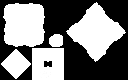
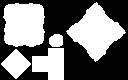
Added horizontal half masks, improved ledge on balcony.

Changed region(s): [[0.25, 0.9, 0.375, 1.0], [0.25, 0.6, 0.375, 0.7], [0.3438, 0.75, 0.4062, 0.85]]

diff --git a/app/content/zones/overworldBig.ts b/app/content/zones/overworldBig.ts
@@ -1576,7 +1576,7 @@ const f0_2x0: AreaDefinition = {
                     [776,776,776,11,11,11,0,0,0,0,1910,1909,0,0,11,11,11,11,0,0,1910,11,11,11,11,11,11,11,11,1909,2296,2296,2296,2296,1910,1909,1910,1909,0,0,0,0,0,0,0,0,0,0,0,0,0,1909,1910,2296,2296,1909,1910,1909,1910,2240,2239,11,11,776],
                     [776,776,776,11,11,11,0,0,0,0,1909,1910,1909,1910,1909,2296,2296,1910,1909,1910,1909,1910,1909,1910,2296,2296,1909,1910,1909,2296,2296,2296,2296,2296,2296,1910,1909,1910,0,0,0,0,0,0,0,0,0,0,0,0,0,1910,1909,2296,2296,1910,1910,1910,1909,2240,2239,2239,2240,776],
                     [776,776,11,11,11,11,0,0,0,1909,1910,1909,1910,1909,1910,2296,2296,1909,1910,1909,1910,1909,1910,1909,2296,2296,1910,1909,2240,2296,2240,2240,2240,2240,2296,2240,1910,1909,1910,1909,1910,1909,1910,2296,2296,2296,1910,1909,1910,1909,1910,1909,1910,2296,2296,1910,1910,1909,1910,2240,2239,2239,2240,776],
-                    [776,11,11,11,11,11,0,0,0,1910,1909,1910,1909,1910,1909,2296,2296,1910,1909,1910,1909,1910,1909,1910,2296,2296,1909,2296,2296,2240,2296,2296,2296,2296,2240,2296,2296,1910,1909,1910,1909,1910,1909,2296,2296,2296,1909,1910,1909,1910,1909,1910,1909,2296,2296,1910,44,43,1909,2240,2239,2239,2240,776],
+                    [776,11,11,11,11,11,0,0,0,1910,1909,1910,1909,1910,1909,2296,2296,1910,1909,1910,1909,1910,1909,1910,2296,2296,1909,2296,2296,2240,2296,2296,2296,2296,2240,2296,2296,1910,1909,1910,1909,1910,1909,2296,2296,2296,1909,1910,1909,1910,1909,1910,1909,2296,2296,1910,44,43,1909,2239,2239,2239,2239,776],
                     [11,11,11,11,11,11,618,618,618,2296,2296,2296,2296,2296,2296,2296,2296,2296,2296,2296,2296,2296,2296,2296,2296,2296,2296,2296,2240,2296,2296,2296,2296,2296,2296,2240,2296,2296,2296,2296,2296,2296,2296,2296,2296,2296,2296,2296,2296,2296,2296,2296,2296,2296,2296,1909,41,42,1910,775,775,775,775,776],
                     [11,11,11,11,11,11,618,618,618,2296,2296,2296,2296,2296,2296,2296,2296,2296,2296,2296,2296,2296,2296,2296,2296,2296,2296,2296,2240,2296,2296,2296,2296,2296,2296,2240,2296,2296,2296,2296,2296,2296,2296,2296,2296,2296,2296,2296,2296,2296,2296,2296,2296,2296,2296,1910,1909,1910,1909,775,775,775,776,776],
                     [11,11,11,11,11,11,0,0,0,1909,1910,1909,1910,1909,1910,1909,1910,1909,1910,1909,1910,1909,1910,1909,1910,1909,1910,2296,2240,2296,2296,2296,2296,2296,2296,2240,2296,1910,1909,1910,1909,1910,1909,1910,1909,1910,1909,1910,1909,1910,1909,1910,1909,2296,2296,1909,1910,1909,1910,11,11,775,776,776],
@@ -1645,7 +1645,8 @@ const f0_2x0: AreaDefinition = {
                     [],
                     [],
                     [],
-                    [,,,,,,,,,2344],
+                    [,,,,,,,,,2345],
+                    [,,,,,,,,,,,,,,,,,,,,,,,,,,,,,,,,,,,,,,,,,,,,,,,,,,,,,,,,,,,,0],
                     [],
                     [],
                     [],
@@ -1657,15 +1658,14 @@ const f0_2x0: AreaDefinition = {
                     [],
                     [],
                     [],
-                    [],
-                    [,,,,,,,,2344],
-                    [],
+                    [,,,,,,,,2345],
                     [],
                     [],
                     [],
                     [],
                     [],
-                    [,,,,,,,2344],
+                    [],
+                    [,,,,,,,2345],
                     [],
                     [],
                     [],
@@ -1720,7 +1720,7 @@ const f0_2x0: AreaDefinition = {
                     [0,0,828,0,0,0,0,0,0,0,2090,0,0,0,0,0,0,0,0,0,0,0,0,0,0,0,0,0,0,0,0,0,0,0,0,0,0,0,0,0,0,0,0,0,0,0,0,0,0,0,0,0,0,0,0,0,0,0,0,0,0,0,0,830],
                     [0,1781,845,0,0,0,0,0,0,0,2090,0,0,0,0,0,0,0,0,0,0,0,0,0,0,0,0,0,0,0,0,0,0,0,0,,0,0,0,0,0,0,0,0,0,0,0,0,0,0,0,0,0,0,0,0,0,0,0,0,0,0,0,830],
                     [859,843,0,0,0,0,0,0,0,2087,2085,0,0,0,0,0,0,0,0,0,0,0,0,0,0,0,0,0,0,0,0,0,0,0,0,0,,0,0,0,0,0,0,0,0,0,0,0,0,0,0,0,0,0,0,0,0,0,0,0,0,0,0,830],
-                    [845,0,0,0,0,0,0,0,0,2090,0,0,0,0,0,0,0,0,0,0,0,0,0,0,0,0,0,0,0,0,0,0,0,0,0,0,0,0,0,0,0,0,0,0,0,0,0,0,0,0,0,0,0,0,0,0,0,0,0,0,0,0,0,830],
+                    [845,0,0,0,0,0,0,0,0,2090,0,0,0,0,0,0,0,0,0,0,0,0,0,0,0,0,0,0,0,0,0,0,0,0,0,0,0,0,0,0,0,0,0,0,0,0,0,0,0,0,0,0,0,0,0,0,0,0,0,1967,0,0,0,830],
                     [0,0,0,0,0,0,628,629,0,0,0,0,0,0,0,0,0,0,0,0,0,0,0,0,0,0,0,0,0,0,0,0,0,0,0,0,0,0,0,0,0,0,0,0,0,0,0,0,0,0,0,0,0,0,0,0,0,0,0,833,833,833,833,830],
                     [0,0,0,0,0,0,0,0,0,0,0,0,0,0,0,0,0,0,0,0,0,0,0,0,0,0,0,0,0,0,0,0,0,0,0,0,0,0,0,0,0,0,0,0,0,0,0,0,0,0,0,0,0,0,0,0,0,0,0,846,831,1780,833,1784],
                     [0,0,0,0,0,0,0,0,0,2090,0,0,0,0,0,0,0,0,0,0,0,0,0,0,0,0,0,0,0,0,0,0,0,0,0,0,0,0,0,0,0,0,0,0,0,0,0,0,0,0,0,0,0,0,0,0,0,0,0,0,0,830,830,0],
@@ -1790,7 +1790,7 @@ const f0_2x0: AreaDefinition = {
                     [],
                     [],
                     [],
-                    [,,,,,,,,,,,,,,,,,,,,,,,,,,,,,,,,,,,,,,,,,,,,,,,,,,,,,,,,,,,,,0,850],
+                    [,,,,,,,,,,,,,,,,,,,,,,,,,,,,,,,,,,,,,,,,,,,,,,,,,,,,,,,,,,,,,0,0],
                     [],
                     [,,,,,,,,,,,,,,,,,,,,,,,,,,,,,,,,,,,,,,,,,,,,,,,,,,,,,,,,,,,,,852,852],
                     [,,,,,,,,,,,,,,,,,,,,,,,,,,,,,,,,,,,,,,,,,,,,,,,,,,,,,,,,,0],
@@ -1863,7 +1863,7 @@ const f0_2x0: AreaDefinition = {
                     [0,0,0,0,0,0,0,0,0,0,1917,0,2006,2007,2202,2202,2202,2202,2003,2007,0,2283,2202,2114,2115,2115,2116,2202,2283,0,0,0,0,0,0,0,0,2035,2000,2001,1954,2339,2339,2038,2038,2038,2339,2339,1952,2000,2001,2036,0,0,0,0,0,0,772,1967,0,753,753,0],
                     [0,0,0,0,0,0,0,0,0,0,1917,0,2008,2009,0,0,0,0,2008,2009,0,0,0,0,0,0,0,0,0,0,0,0,0,0,0,,0,2040,2006,2007,1957,2340,2340,2043,2043,2043,2340,2340,1955,2006,2007,2041,0,0,0,0,0,0,0,1967,0,0,0,0],
                     [0,0,766,0,0,0,0,0,0,0,1918,0,0,0,0,0,0,0,0,0,0,0,0,0,0,0,0,0,51,0,0,0,0,0,0,51,,0,2008,2009,0,0,0,0,0,0,0,0,0,2008,2009,0,0,0,0,1918,1915,1915,1921,1967,0,0,0,0],
-                    [0,758,766,0,0,0,0,0,0,0,0,0,0,0,0,0,0,0,0,0,0,0,0,0,0,0,0,0,0,0,0,0,0,0,0,0,0,0,0,0,0,0,0,0,0,0,0,0,0,0,0,0,0,0,0,1917,20,20,1917,1959,0,0,0,0],
+                    [0,758,766,0,0,0,0,0,0,0,0,0,0,0,0,0,0,0,0,0,0,0,0,0,0,0,0,0,0,0,0,0,0,0,0,0,0,0,0,0,0,0,0,0,0,0,0,0,0,0,0,0,0,0,0,1917,20,20,1917,768,754,754,754,0],
                     [758,758,766,0,0,0,0,629,630,0,0,0,0,0,0,0,0,0,0,0,0,0,0,0,0,0,0,0,0,0,0,0,0,0,0,0,0,0,0,0,0,0,0,0,0,0,0,0,0,0,0,0,0,0,0,1917,20,20,1917,830,0,0,0,0],
                     [758,758,766,0,0,0,637,638,639,0,0,0,0,0,0,0,0,0,0,0,0,0,0,0,0,0,0,0,0,0,0,0,0,0,0,0,0,0,0,0,0,0,0,0,0,0,0,0,0,0,0,0,0,0,0,1919,1915,1915,1921,0,0,0,833,0],
                     [758,770,773,0,0,0,0,0,0,0,0,0,0,0,0,0,0,0,0,0,0,0,0,0,0,0,0,0,0,0,0,0,0,0,0,0,0,0,0,0,0,0,0,0,0,0,0,0,0,0,0,0,0,0,0,0,0,0,0,755,755,0,0,0],
@@ -1907,6 +1907,76 @@ const f0_2x0: AreaDefinition = {
                     [754,753,754,753,754,753,754,753,754,753,754,753,754,753,754,753,754,753,754,753,754,758,873,874,874,875,753,753,754,753,754,753,754,753,754,753,754,753,754,753,754,753,754,753,753,754,753,754,753,754,753,754,753,754,753,754,753,754,753,754,753,754,753,754],
                 ],
             },
+            mask: {
+                w: 64,
+                h: 64,
+                tiles: [
+                    [],
+                    [],
+                    [],
+                    [],
+                    [],
+                    [],
+                    [],
+                    [],
+                    [],
+                    [],
+                    [],
+                    [],
+                    [],
+                    [],
+                    [],
+                    [],
+                    [],
+                    [],
+                    [],
+                    [],
+                    [],
+                    [],
+                    [,,,,,,,,,,,,,,,,,,,,,,,,,,,,,,,,,,,,,,,,,,,,,,,,,,,,,,,,,,,2346,2346,2346,2346],
+                    [],
+                    [],
+                    [],
+                    [],
+                    [],
+                    [],
+                    [],
+                    [],
+                    [],
+                    [],
+                    [],
+                    [],
+                    [],
+                    [],
+                    [],
+                    [],
+                    [],
+                    [],
+                    [],
+                    [],
+                    [],
+                    [],
+                    [],
+                    [],
+                    [],
+                    [],
+                    [],
+                    [],
+                    [],
+                    [],
+                    [],
+                    [],
+                    [],
+                    [],
+                    [],
+                    [],
+                    [],
+                    [],
+                    [],
+                    [],
+                    [],
+                ],
+            },
         },
         {
             key: 'field2',
@@ -1936,7 +2006,7 @@ const f0_2x0: AreaDefinition = {
                     [0,0,0,0,0,0,0,0,0,0,0,0,0,0,0,0,0,0,0,0,0,0,0,0,0,0,0,0,0,0,0,0,0,0,0,0,0,0,0,0,0,0,0,0,0,0,0,0,0,0,0,0,0,0,0,0,0,0,699,0,0,0,0,0],
                     [0,0,0,0,0,0,0,0,0,0,0,0,0,0,0,0,0,0,0,0,0,0,0,0,0,0,0,0,0,0,0,0,0,0,0,,0,0,0,0,0,0,0,0,0,0,0,0,0,0,0,0,0,0,0,0,0,0,0,0,0,0,0,0],
                     [0,0,0,0,0,0,0,0,0,0,0,0,0,0,0,0,0,0,0,0,0,0,0,0,0,0,0,0,0,0,0,0,0,0,0,0,,0,0,0,0,0,0,0,0,0,0,0,0,0,0,0,0,0,0,0,0,0,0,0,0,0,0,0],
-                    [0,0,0,0,0,0,0,0,0,0,0,0,0,0,0,0,0,0,0,0,0,0,0,0,0,0,0,0,0,0,0,0,0,0,0,0,0,0,0,0,0,0,0,0,0,0,0,0,0,0,0,0,0,0,0,0,0,0,0,0,0,0,2240,0],
+                    [0,0,0,0,0,0,0,0,0,0,0,0,0,0,0,0,0,0,0,0,0,0,0,0,0,0,0,0,0,0,0,0,0,0,0,0,0,0,0,0,0,0,0,0,0,0,0,0,0,0,0,0,0,0,0,0,0,0,0,0,0,0,0,0],
                     [0,0,0,0,0,0,0,0,0,0,0,0,0,0,0,0,0,0,0,0,0,0,0,0,0,0,0,0,0,0,0,0,0,0,0,0,0,0,0,0,0,0,0,0,0,0,0,0,0,0,0,0,0,0,0,0,0,0,0,0,0,0,0,0],
                     [0,0,0,0,0,0,0,0,0,0,0,0,0,0,0,0,0,0,0,0,0,0,0,0,0,0,0,0,0,0,0,0,0,0,0,0,0,0,0,0,0,0,0,0,0,0,0,0,0,0,0,0,0,0,0,0,0,0,0,0,0,0,0,0],
                     [0,0,689,0,0,0,0,0,0,0,0,0,0,0,0,0,0,0,0,0,0,0,0,0,0,0,0,0,0,0,0,0,0,0,0,0,0,0,0,0,0,0,0,0,0,0,0,0,0,0,0,0,0,0,0,0,0,0,0,0,0,0,0,0],
@@ -2157,7 +2227,7 @@ const f0_2x0: AreaDefinition = {
                     [0,0,0,0,0,0,0,0,0,0,0,0,0,0,0,0,0,0,0,0,0,0,0,0,0,0,0,0,0,0,0,0,0,0,0,0,0,0,0,0,0,0,0,0,0,0,0,0,0,0,0,0,0,0,0,0,0,0,0,0,0,0,0,0],
                     [0,0,0,0,0,0,0,0,0,0,0,0,0,0,0,0,0,0,0,0,0,0,0,0,0,0,0,0,0,0,0,0,0,0,0,0,0,0,0,0,0,0,0,0,0,0,0,0,0,0,0,0,0,0,0,0,0,0,0,0,0,0,0,0],
                     [0,0,0,0,0,0,0,0,0,0,0,0,0,0,0,0,0,0,0,0,0,0,0,0,0,0,0,0,0,0,0,0,0,0,0,0,0,0,0,0,0,0,0,0,0,0,0,0,0,0,0,0,0,0,0,0,0,0,0,0,0,0,0,0],
-                    [0,0,0,0,0,0,0,0,0,0,0,0,0,0,0,0,0,0,0,0,0,0,0,0,0,0,0,0,0,0,0,0,0,0,0,0,0,0,0,0,0,0,0,0,0,0,0,0,0,0,0,0,0,0,0,0,0,0,0,0,0,0,0,0],
+                    [0,0,0,0,0,0,0,0,0,0,0,0,0,0,0,0,0,0,0,0,0,0,0,0,0,0,0,0,0,0,0,0,0,0,0,0,0,0,0,0,0,0,0,0,0,0,0,0,0,0,0,0,0,0,0,0,0,0,0,314,314,314,314,0],
                     [0,0,0,0,0,0,0,0,0,0,0,0,0,0,0,0,0,0,0,0,0,0,0,0,0,0,0,0,0,0,0,0,0,0,0,0,0,0,0,0,0,0,0,0,0,0,0,0,0,0,0,0,0,0,0,0,0,0,0,0,0,0,0,0],
                     [0,0,0,0,0,0,0,0,0,0,0,0,0,0,0,0,0,0,0,0,0,0,0,0,0,0,0,0,0,0,0,0,0,0,0,0,0,0,0,0,0,0,0,0,0,0,0,0,0,0,0,0,0,0,0,0,0,0,0,0,0,0,0,0],
                     [0,0,0,0,0,0,0,0,0,0,0,0,0,0,0,0,0,0,0,0,0,0,0,0,0,0,0,0,0,0,0,0,0,0,0,0,0,0,0,0,0,0,0,0,0,0,0,0,0,0,0,0,0,0,0,0,0,0,0,0,0,0,0,0],

diff --git a/app/content/tiles.ts b/app/content/tiles.ts
@@ -500,9 +500,9 @@ const shore: TileSource = {
 };
 
 
-const diagonals: TileSource = {
+const halves: TileSource = {
     w: 16, h: 16,
-    source: requireFrame('gfx/tiles/empty.png', {x: 0, y: 0, w: 32, h: 32}),
+    source: requireFrame('gfx/tiles/empty.png', {x: 0, y: 0, w: 48, h: 32}),
     behaviors: {
         'all': { defaultLayer: 'floor' },
     },
@@ -531,7 +531,7 @@ const shoreMask: TileSource = {
 
 const diagMask: TileSource = {
     w: 16, h: 16,
-    source: requireFrame('gfx/tiles/diagMask.png', {x: 0, y: 48, w: 32, h: 32}),
+    source: requireFrame('gfx/tiles/diagMask.png', {x: 0, y: 48, w: 48, h: 32}),
     behaviors: {
         'all': { defaultLayer: 'floor', isGround: false },
     },
@@ -633,7 +633,7 @@ function applyMask(targetSource: TileSource, maskSource: TileSource) {
 
 applyMask(shore, shoreMask);
 applyMask(shoreAngles, shoreAnglesMask);
-applyMask(diagonals, diagMask);
+applyMask(halves, diagMask);
 
 const treeStump: TileSource = {
     w: 16, h: 16,
@@ -1229,7 +1229,7 @@ addTiles([
     ...allDarkJadeCityTileSources,
     ...allJadeInteriorLightTileSources,
     ...allJadeInteriorDarkTileSources,
-    diagonals,
+    halves,
 ]);
 
 // This invalid is in the middle of a bunch of other tiles so it is easiest to just delete after adding it.

diff --git a/app/content/tiles/palettes.ts b/app/content/tiles/palettes.ts
@@ -68,9 +68,9 @@ paletteHash.water = [
     [430, 431, 432, 0,   461, 462, 463, 0,   129, 130, 131, 1,  291,  0],
     [433, 434, 435, 436, 464, 465, 466, 467, 133, 134, 135, 136,292,  0],
     [437, 438, 439, 440, 468, 469, 470, 471, 137, 138, 139, 140,302,  0],
-    [0,   441, 442, 0,   0,   472, 473, 0,   0,   141, 142, 1,  303,  0],
-    [443, 444, 445, 446, 474, 475, 476, 477, 143, 144, 145, 146,304,  0],
-    [447, 448, 449, 450, 478, 479, 480, 481, 147, 148, 149, 150,2344, 2343],
+    [0,   441, 442, 0,   0,   472, 473, 0,   0,   141, 142, 1,  303,  2346],
+    [443, 444, 445, 446, 474, 475, 476, 477, 143, 144, 145, 146,304,  2343],
+    [447, 448, 449, 450, 478, 479, 480, 481, 147, 148, 149, 150,2345, 2344],
     [0,   451, 452, 0,   0,   482, 483, 0,   0,   151, 152, 1,  2342, 2341],
 ];
 
